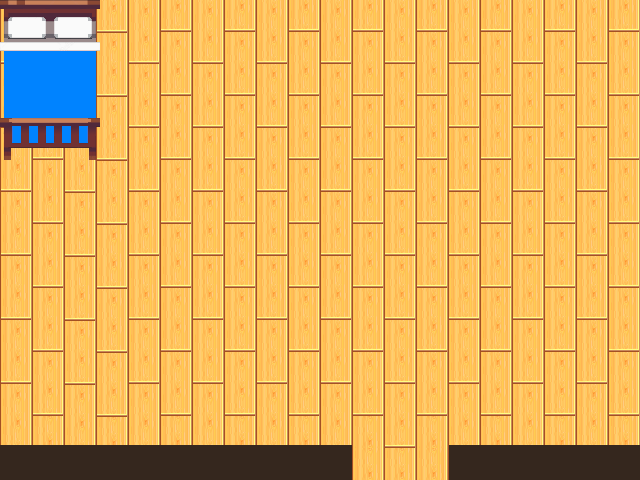
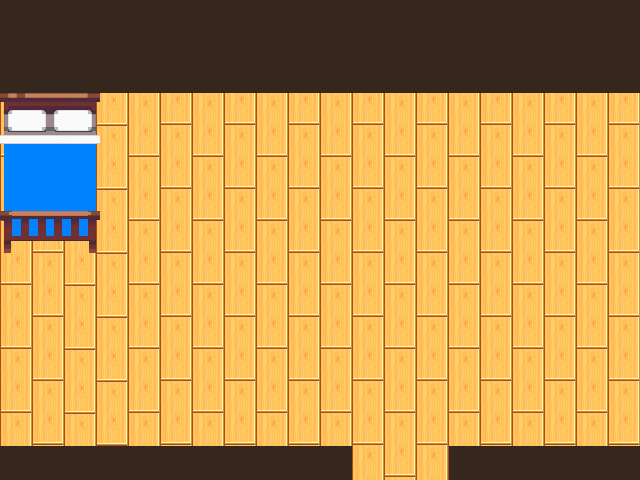
COFRE

diff --git a/SDLprojektua/Source.c b/SDLprojektua/Source.c
@@ -53,8 +53,8 @@ int main(int argc, char* argv[]) {
 
 	if (zabalik) {
 		loadFiles();
-		//Mix_Music* music = Mix_LoadMUS("assets/sounds/test.wav");
-		//Mix_PlayMusic(music, 1);
+		Mix_Music* music = Mix_LoadMUS("assets/sounds/stardey.wav");
+		Mix_PlayMusic(music, 1);
 		/*for (int i = 0; i < 49; i++) {
 			tiles[plantable_ID[i]].plant.arado = 1;
 		}*/
@@ -87,7 +87,14 @@ int main(int argc, char* argv[]) {
 			case HOME:
 				update(deltaTime);
 				aplikatuSurface(0, 0, SCREEN_WIDTH, SCREEN_HEIGHT, textures[homeSurface], NULL);
+				SDL_Rect clip = { 170 , 0 , 55 , 90 };
+				clip.y = 0;
+				clip.w = 55;
+				clip.h = 90;
+				aplikatuSurface(390, 70, 55, 90, textures[obstacleSurface], &clip);
+
 				checkPosibleInteraction();
+
 				drawPlayer();
 				for (int i = 0; i < 3; i++) showInv(i);
 				marraztuInvTag(getHoveringInv());
@@ -198,6 +205,7 @@ void marraztu() {
 	aplikatuSurface(0, 0, SCREEN_WIDTH, SCREEN_HEIGHT, textures[bgSurface], &camera);
 	marraztuTiles();
 	marraztuDroppedItems(0);
+	marraztuEnergy();
 	SDL_Rect clip = { 0, 126, 60, 61 };
 	if (player.y > 64 - 5) {
 		aplikatuSurface(12 * TILE_SIZE - camera.x, 3 * TILE_SIZE - camera.y, 60, 61, textures[obstacleSurface], &clip);

diff --git a/SDLprojektua/player.c b/SDLprojektua/player.c
@@ -101,7 +101,10 @@ void movePlayer(double deltaTime) {
 	else if (player.status == HOME) {
 		if (player.movingRight) {
 			player.x += (int)(player.speed * deltaTime * multiplier);
-
+			if (player.y < 70 && player.x > 340 && player.x < 350)
+			{
+				player.x = 340;
+			}
 			if (player.x > 640 - 64) {
 				player.x = 640 - 64;
 			}
@@ -113,8 +116,11 @@ void movePlayer(double deltaTime) {
 
 		if (player.movingLeft) {
 			player.x -= (int)(player.speed * deltaTime * multiplier);
-
-			if (player.y < 64 && player.x < 100) {
+			if (player.y < 70 && player.x < 440 && player.x >430)
+			{
+				player.x = 440;
+			}
+			else if (player.y < 150 && player.x < 100) {
 				player.x = 100;
 			}
 			else if (player.x < 0) {
@@ -127,9 +133,12 @@ void movePlayer(double deltaTime) {
 
 		if (player.movingUp) {
 			player.y -= (int)(player.speed * deltaTime * multiplier);
-
-			if (player.y < 64 && player.x < 100) {
-				player.y = 64;
+			if (player.y < 70 && player.x > 340 && player.x < 440)
+			{
+				player.y = 70;
+			}
+			else if (player.y < 150 && player.x < 100) {
+				player.y = 150;
 			}
 			else if (player.x >= 100 && player.x <= 640 - 64 && player.y < 0) {
 				player.y = 0;

diff --git a/SDLprojektua/objektuak.h b/SDLprojektua/objektuak.h
@@ -6,7 +6,7 @@ extern const int SCREEN_WIDTH, SCREEN_HEIGHT, TILE_SIZE, GRID_SIZE, LEVEL_SIZE;
 extern SDL_Window* win;
 extern SDL_Renderer* renderer;
 SDL_Texture* textures[16];
-enum textures { bgSurface, playerSurface, itemsSurface, plantsSurface, pauseSurface, HUDSurface, homeSurface, obstacleSurface, firmaSurface, menuSurface };
+enum textures { bgSurface, playerSurface, itemsSurface, plantsSurface, pauseSurface, HUDSurface, homeSurface, obstacleSurface, firmaSurface, menuSurface, cofreSurface };
 
 extern int main_menu, language;
 

diff --git a/SDLprojektua/MediaHandler.c b/SDLprojektua/MediaHandler.c
@@ -45,6 +45,8 @@ void loadFiles() {
 	textures[HUDSurface] = loadMedia("assets/images/HUD.png");
 	textures[firmaSurface] = loadMedia("assets/images/FIRMA.png");
 	textures[menuSurface] = loadMedia("assets/images/ANCIENTGARDEN.png");
+	textures[cofreSurface] = loadMedia("assets/images/cofre.png");
+	
 	return;
 }
 

diff --git a/SDLprojektua/InputHandler.c b/SDLprojektua/InputHandler.c
@@ -268,6 +268,7 @@ int mouseHandlerDown(SDL_Event e) {
 					}
 				}else if (inventories[INV_HOTBAR].items[player.hotbarSlot].ID == 1) {
 					tiles[player.facingTile].plant.arado = 1;
+					restaEnergy();
 				}
 			}else {
 				dropHoveringItem();

diff --git a/SDLprojektua/obstacles.c b/SDLprojektua/obstacles.c
@@ -12,5 +12,5 @@ struct Obstacle obstaclesOutside[] = {
 
 struct Obstacle obstaclesInside[] = {
 	{0, 0, 100, 160}, //Cama
-	{300, 0, 64, 64}, //Cofre tmp
+	{340, 0, 100, 78}, //Cofre tmp
 };

diff --git a/SDLprojektua/energy.c b/SDLprojektua/energy.c
@@ -20,3 +20,8 @@ void restaEnergy()
 	player.energy = player.energy - 5;
 	return;
 }
+
+void resetEnergy()
+{
+	player.energy = 200;
+}
